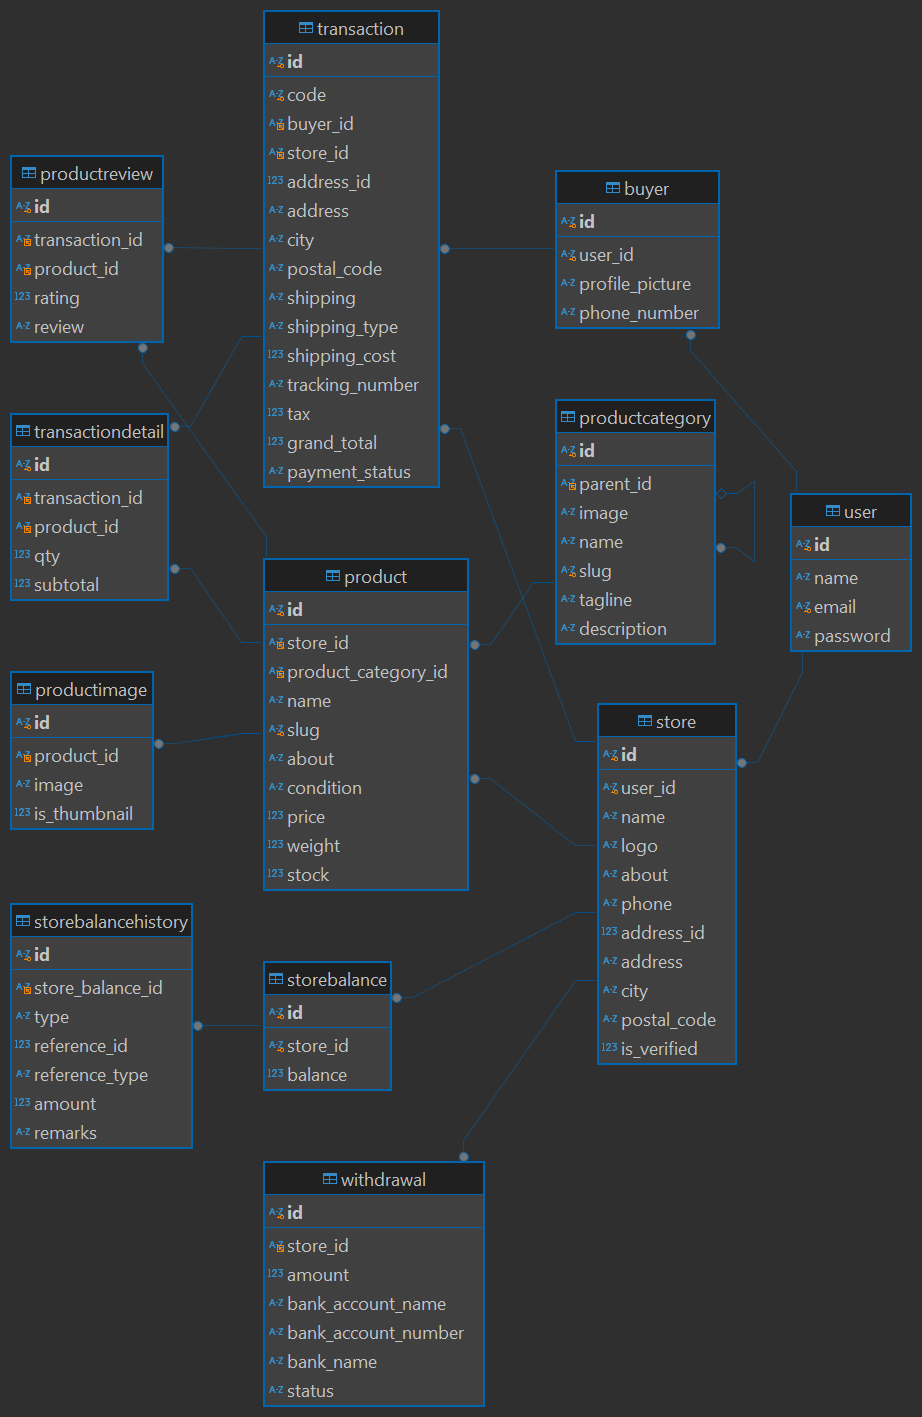
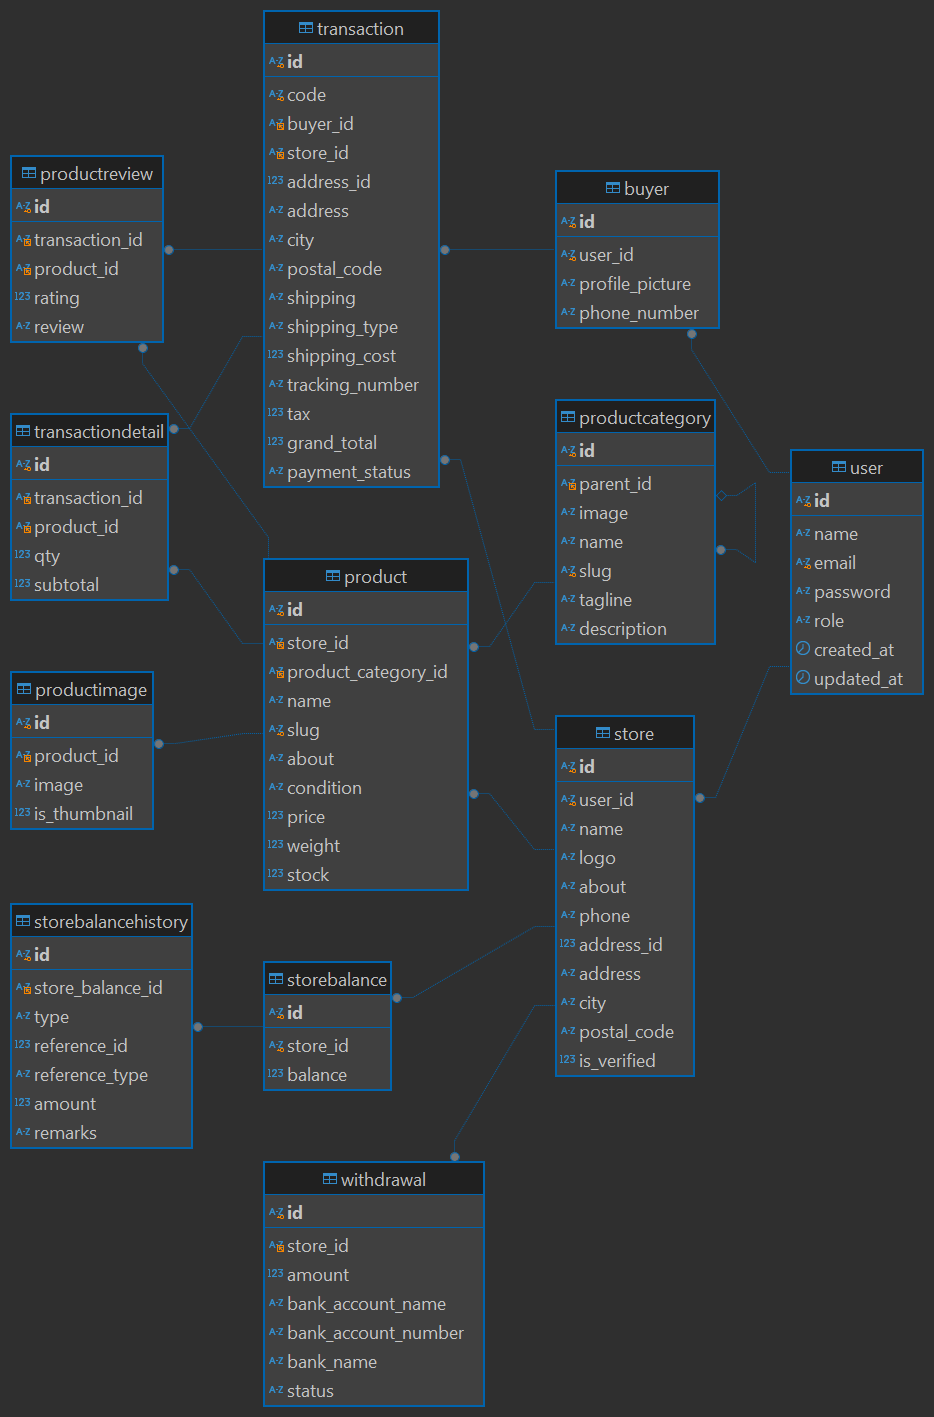
modificate user migration and user model, add seeder: adminUserSeeder.php, modificate db_structure.png

diff --git a/database/seeders/AdminUserSeeder.php b/database/seeders/AdminUserSeeder.php
@@ -1,0 +1,30 @@
+<?php
+
+namespace Database\Seeders;
+
+use App\Models\User;
+use Illuminate\Database\Console\Seeds\WithoutModelEvents;
+use Illuminate\Database\Seeder;
+use Illuminate\Support\Facades\Hash;
+
+class AdminUserSeeder extends Seeder
+{
+    /**
+     * Run the database seeds.
+     */
+    public function run(): void
+    {
+        // 1. Set user ID 1 sebagai admin
+        User::where('id', 1)->update([
+            'role' => 'admin'
+        ]);
+
+        // 2. (OPSIONAL) Buat admin baru jika mau
+        // User::create([
+        //     'name' => 'Second Admin',
+        //     'email' => 'admin2@example.com',
+        //     'password' => Hash::make('password123'),
+        //     'role' => 'admin'
+        // ]);
+    }
+}

diff --git a/app/Models/User.php b/app/Models/User.php
@@ -22,6 +22,7 @@ class User extends Authenticatable
         'name',
         'email',
         'password',
+        'role',
     ];
 
     /**
@@ -47,6 +48,22 @@ class User extends Authenticatable
         ];
     }
 
+    // Helper methods
+    public function isAdmin()
+    {
+        return $this->role === 'admin';
+    }
+
+    public function isMember()
+    {
+        return $this->role === 'member';
+    }
+    
+    // Cek apakah user adalah seller (punya store yang verified)
+    public function isSeller()
+    {
+        return $this->store()->exists() && $this->store->is_verified;
+    }
     // relationships can hava one store 
     public function store()
     {

diff --git a/database/migrations/0001_01_01_000000_create_users_table.php b/database/migrations/0001_01_01_000000_create_users_table.php
@@ -16,6 +16,7 @@ return new class extends Migration
             $table->string('name');
             $table->string('email')->unique();
             $table->timestamp('email_verified_at')->nullable();
+            $table->enum('role', ['admin', 'member'])->default('member');
             $table->string('password');
             $table->rememberToken();
             $table->timestamps();

diff --git a/database/seeders/DatabaseSeeder.php b/database/seeders/DatabaseSeeder.php
@@ -18,8 +18,8 @@ class DatabaseSeeder extends Seeder
         // User::factory(10)->create();
 
         User::factory()->create([
-            'name' => 'Test User',
-            'email' => 'test@example.com',
+            'name' => 'admin',
+            'email' => 'admin@example.com',
         ]);
     }
 }
